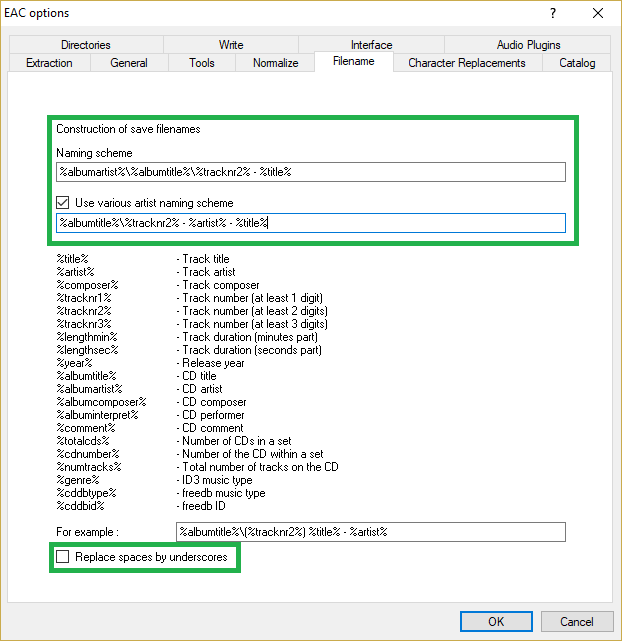
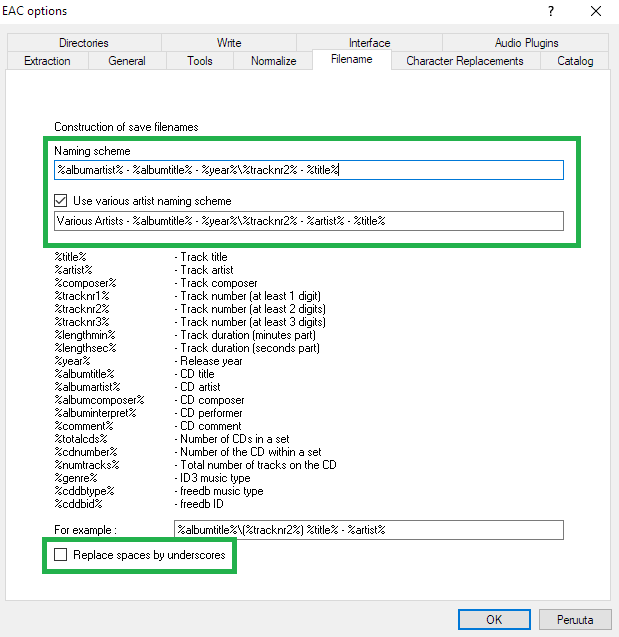
Windows-rippaus update

diff --git a/src/content/windowsrippaus.md b/src/content/windowsrippaus.md
@@ -77,9 +77,9 @@ asetukset samoin kuin kuvassa.
 %tracknr2% tarkoittaa, että raidan numerointi tehdään kahdella numerolla. Asetusten mukaisesti tiedostot nimetään 
 tyyliin 01 - Dodo-sorsa. Kokoelmalevyillä tiedostonimeen tulee mukaan myös artisti, esim. 01 - Siiri Nuora - Dodo-sorsa.
 
-Naming scheme: *%albumartist%\%albumtitle%\%tracknr2% - %title%*
+Naming scheme: *%albumartist% - %albumtitle% - %year%\\%tracknr2% - %title%*
 
-Various artist naming scheme: *%albumtitle%\%tracknr2% - %artist% - %title%*
+Various artist naming scheme: *Various Artists - %albumtitle% - %year%\\%tracknr2% - %artist% - %title%*
 
 ### Vaihe 4: CD-aseman asetukset
 
@@ -172,8 +172,8 @@ profiilillesi nimi. Tämä tallentaa asetukset erikseen valittavaan profiiliin (
 
 Ennen rippaamista:
 
-1. Tarkista, löytyvätkö kappaleet jo [kirjastosta](/musiikki.html). Se löytyy hakemistosta <artistin nimi/albumin nimi>/ tai
-<albumin nimi>, jos kyseessä on kokoelmalevy.
+1. Tarkista, löytyvätkö kappaleet jo [kirjastosta](/musiikki.html). Haku on filtteröivä eli suodattaa pois tulokset,
+joista ei löydy kirjoittamaasi merkkiriviä.
 2. Tarkista uudelleen, löytyvätkö kappaleet jo [kirjastosta](/musiikki.html). Jos löytyy, älä kuluta tähän aikaa, vaan siirry
 seuraavaan levyyn.
 3. Jos levyssäsi sattuu olemaan jonkinlainen kopiosuojaus, älä turhaan yritä rippailla sitä, vaan siirry seuraavaan.
@@ -224,21 +224,29 @@ varsinaisen suorituksen, joka kestää yleensä 15 min - 3 tuntia levyn pituudes
 asennosta riippuen. Data luetaan kahteen kertaa, jolloin voidaan varmistua, että CRC pysyy samana. Kyllä, se on hidasta.
 Kyllä, se on tarpeellista.
 
+<div class="ScreenshotContainer">
+  <img alt="Kuva EAC:n tervetuloaruudusta" src="/windows-rippaus/rippaussuoritettu.png" />
+</div>
+
 Jos rippauksen aika status-ikkunaan ilmestyy taikasanoja “Read error” tai “Sync error”, on levyssä sellaisia naarmuja,
 joista asemasi ei selviä. Tällöin rippaus kannattaa suosiolla keskeyttää, tiedostot poistaa ja vaihtaa seuraavaan
 levyyn. Esim. kirjaston levyt ovat monesti todella huonossa kunnossa ja myös kopiosuojatut (2000-luvulla esiintyi näitä)
 aiheuttavat harmia. Jos kopiointi ei syystä tai toisesta onnistu, *ÄLÄ LISÄÄ SITÄ KIRJASTOON*. Kaikkien kappaleiden
 täytyy olla onnistuneesti kopioituneita, jotta rippaus voidaan arkistoida.
 
-Rippauksen jälkeen pitäisi löytyä tekstejä kuten All tracks accurately ripped, logi rippauksesta tallentuu samaan
-kansioon ja se on tapa todistaa, että levy on todellakin kopioitu sallitusta lähteestä onnistuneesti, joten se on
-arkistoon menevistä levyistä löydyttävä.
+<div class="ScreenshotContainer">
+  <img alt="Kuva EAC:n tervetuloaruudusta" src="/windows-rippaus/logi.png" />
+</div>
+
+Rippauksen jälkeen pitäisi logitiedostosta löytyä tekstejä kuten All tracks accurately ripped. Logi rippauksesta tallentuu samaan
+kansioon *painettuasi OK* ja se on tapa todistaa, että levy on todellakin kopioitu sallitusta lähteestä onnistuneesti, joten se on
+arkistoon menevistä levyistä löydyttävä. 
 
 Siinä kaikki. Toista kohdat 1-3 jokaiselle levylle erikseen.
 
 ## Albumin lisääminen kirjastoon
 
-Albumeiden lisääminen kirjastoon on äärimmäisen yksinkertaista. Klikkaa alla olevaa nappia ja syötä tiedostot.
+Albumeiden lisääminen kirjastoon on äärimmäisen yksinkertaista. Klikkaa alla olevaa nappia ja syötä tiedostot lomakkeen ohjeen mukaan.
 
 <div class="ButtonContainer">
 <a href="https://docs.google.com/forms/d/e/1FAIpQLSetqnhzrpfOdbkaK4GmUHTGFMZH0h6NBMeKESC4rQEh3JqatA/viewform?usp=sf_link">
